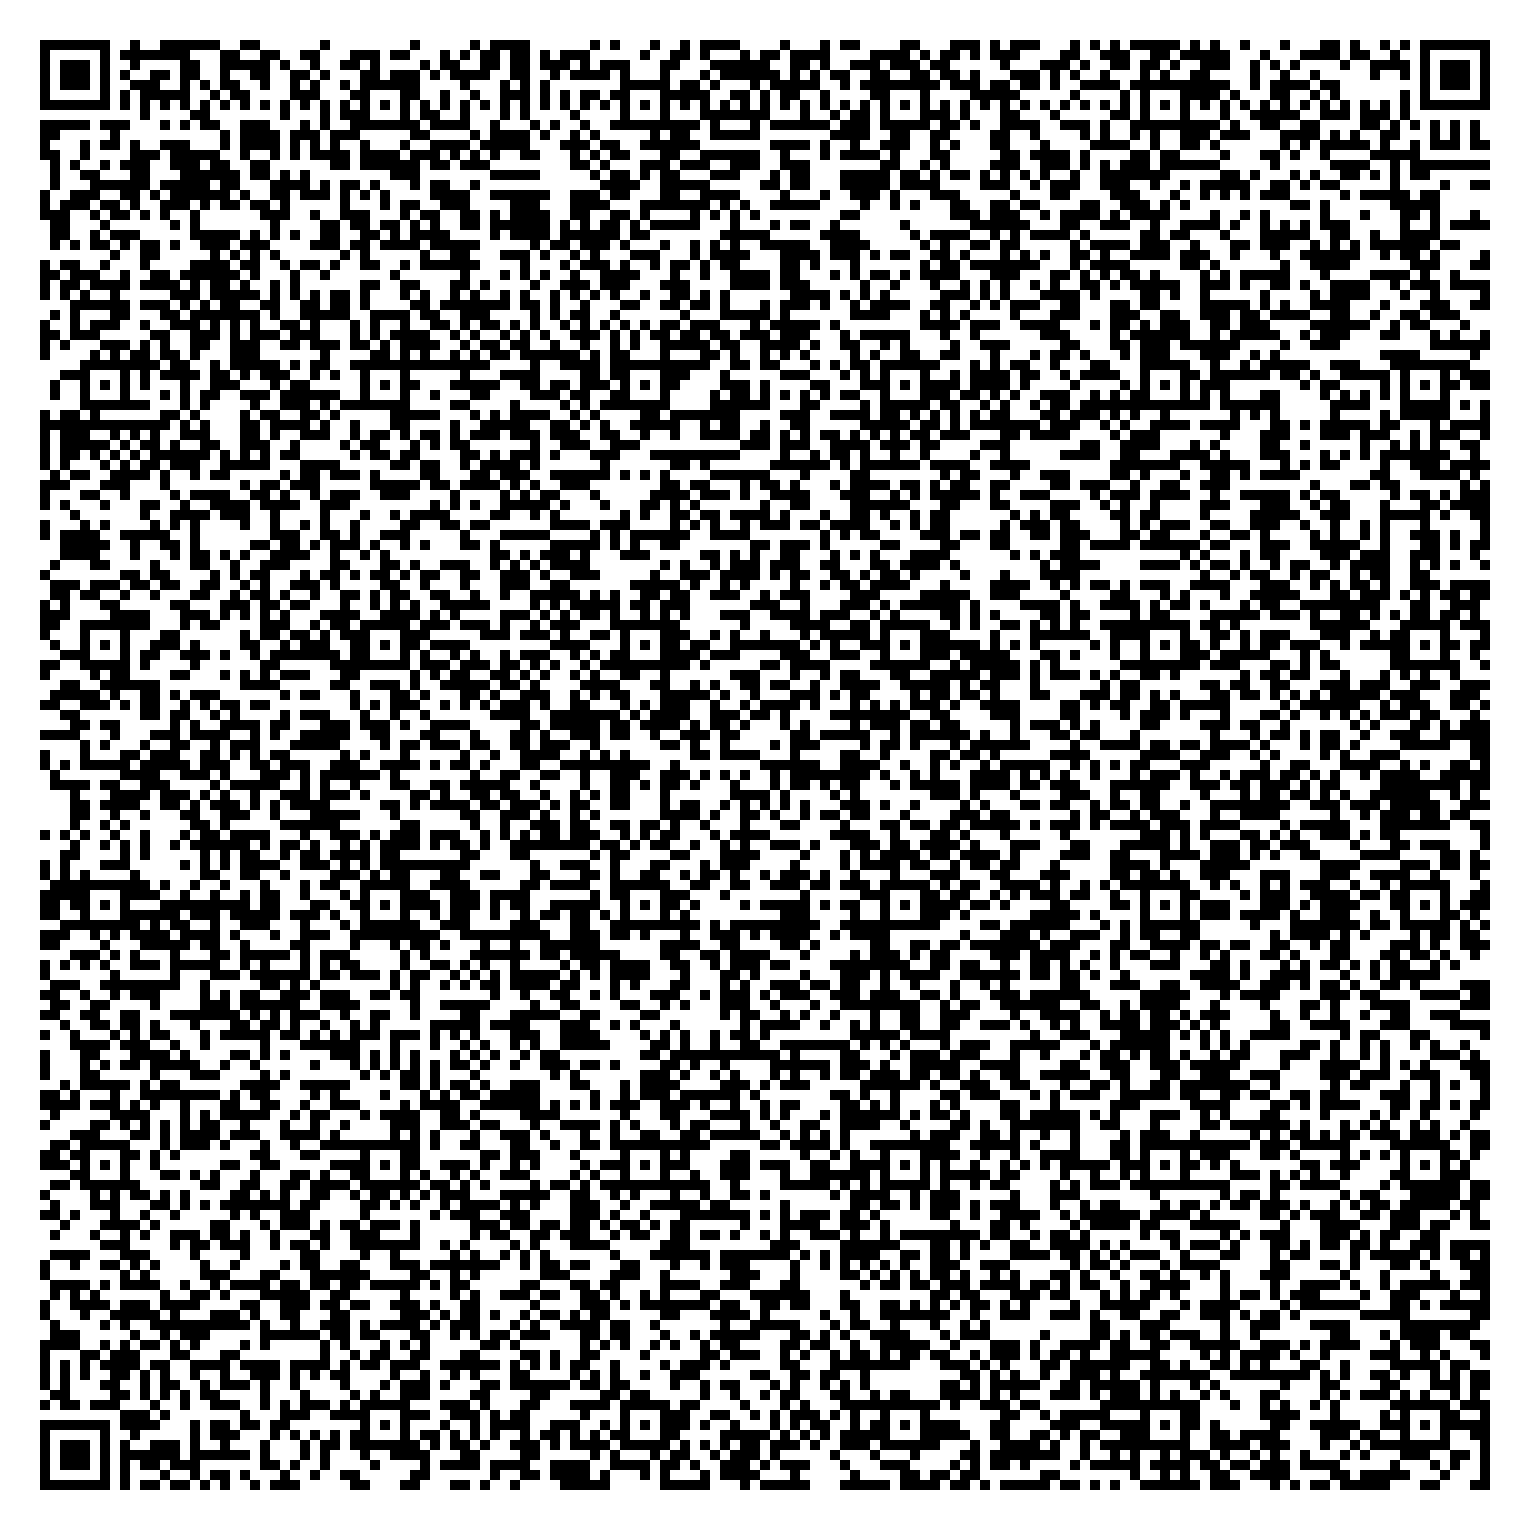
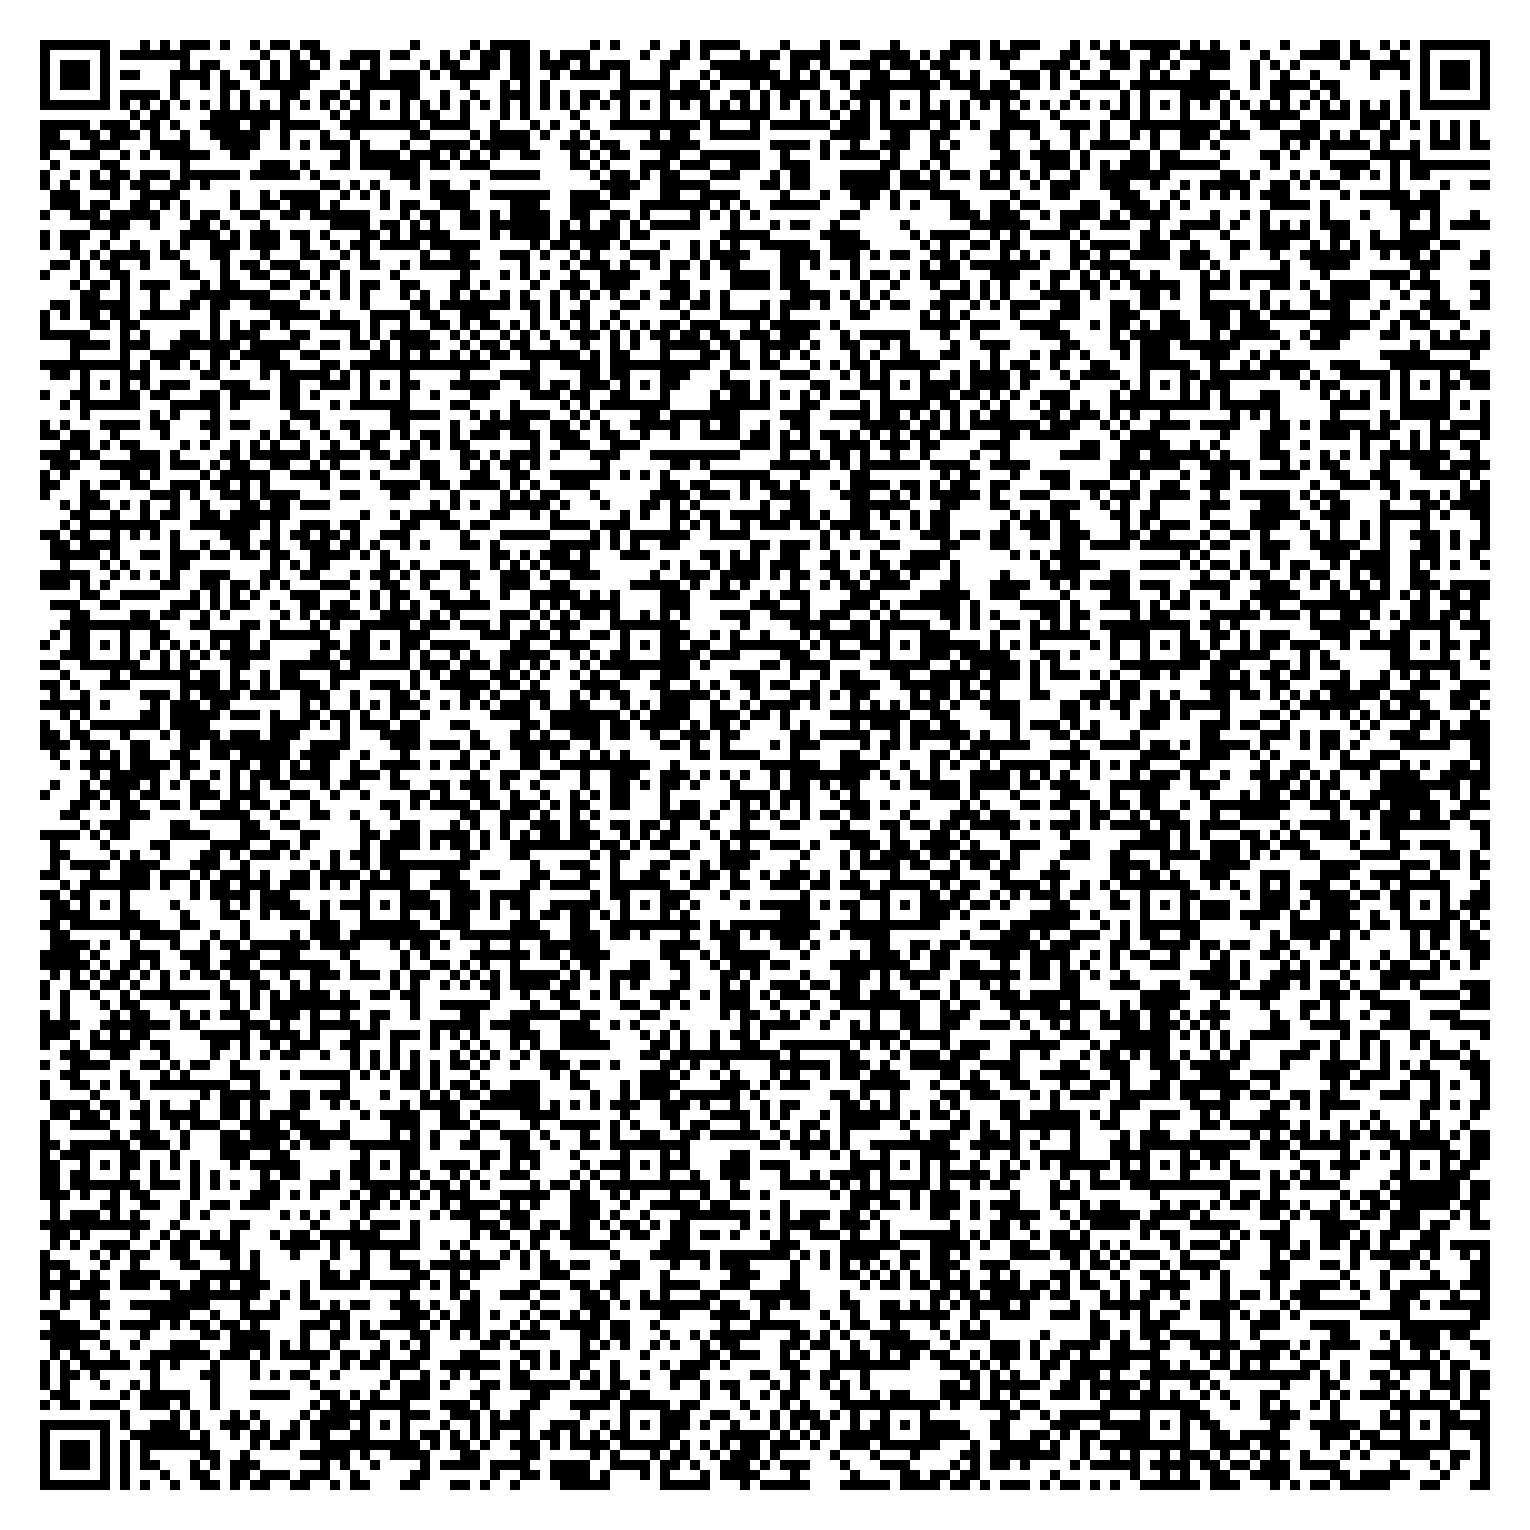
EEEEEEEEEEEEEEEEE

diff --git a/__main__.py b/__main__.py
@@ -6,11 +6,12 @@ import time
 
 import PIL
 import qrcode
+import qrcode.image.svg 
 from PIL import Image
 
 filename = "test.png"
 readablefile = open(filename, "rb")
-convfile = base64.b64encode(readablefile.read())
+convfile = base64.urlsafe_b64encode(readablefile.read())
 
 # Convert Base64 to QR Code
 qr = qrcode.QRCode(
@@ -23,6 +24,8 @@ qr.add_data(convfile)  # encoded is the data from Base64
 qr.make(fit=True)
 
 img = qr.make_image(fill_color="black", back_color="white")
-img.save('qr.webp')
+img.save('qr.png')
+
+
 
 input("Done")
